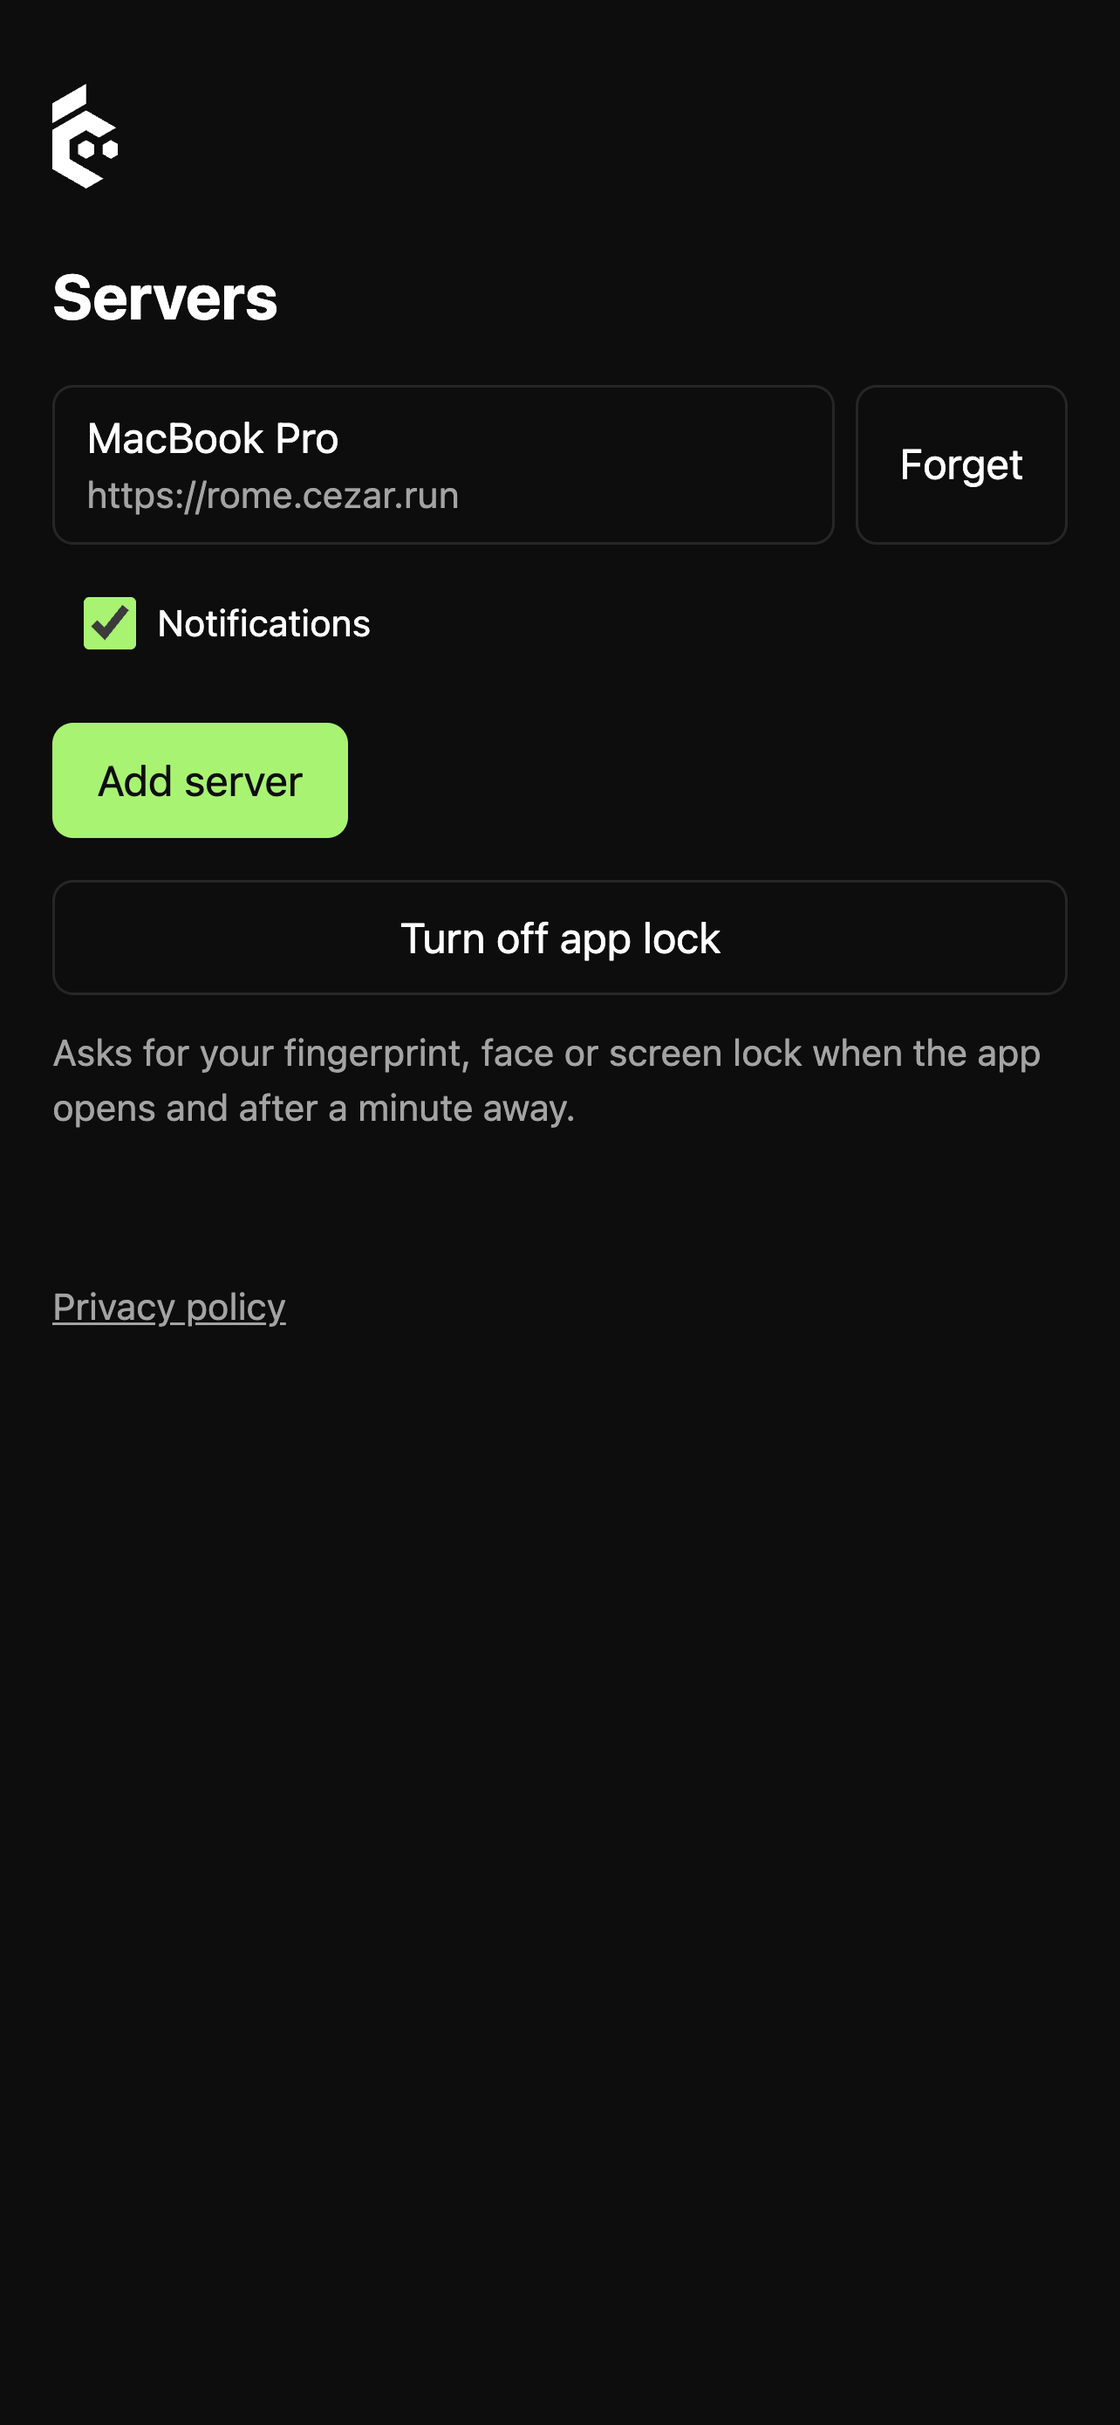
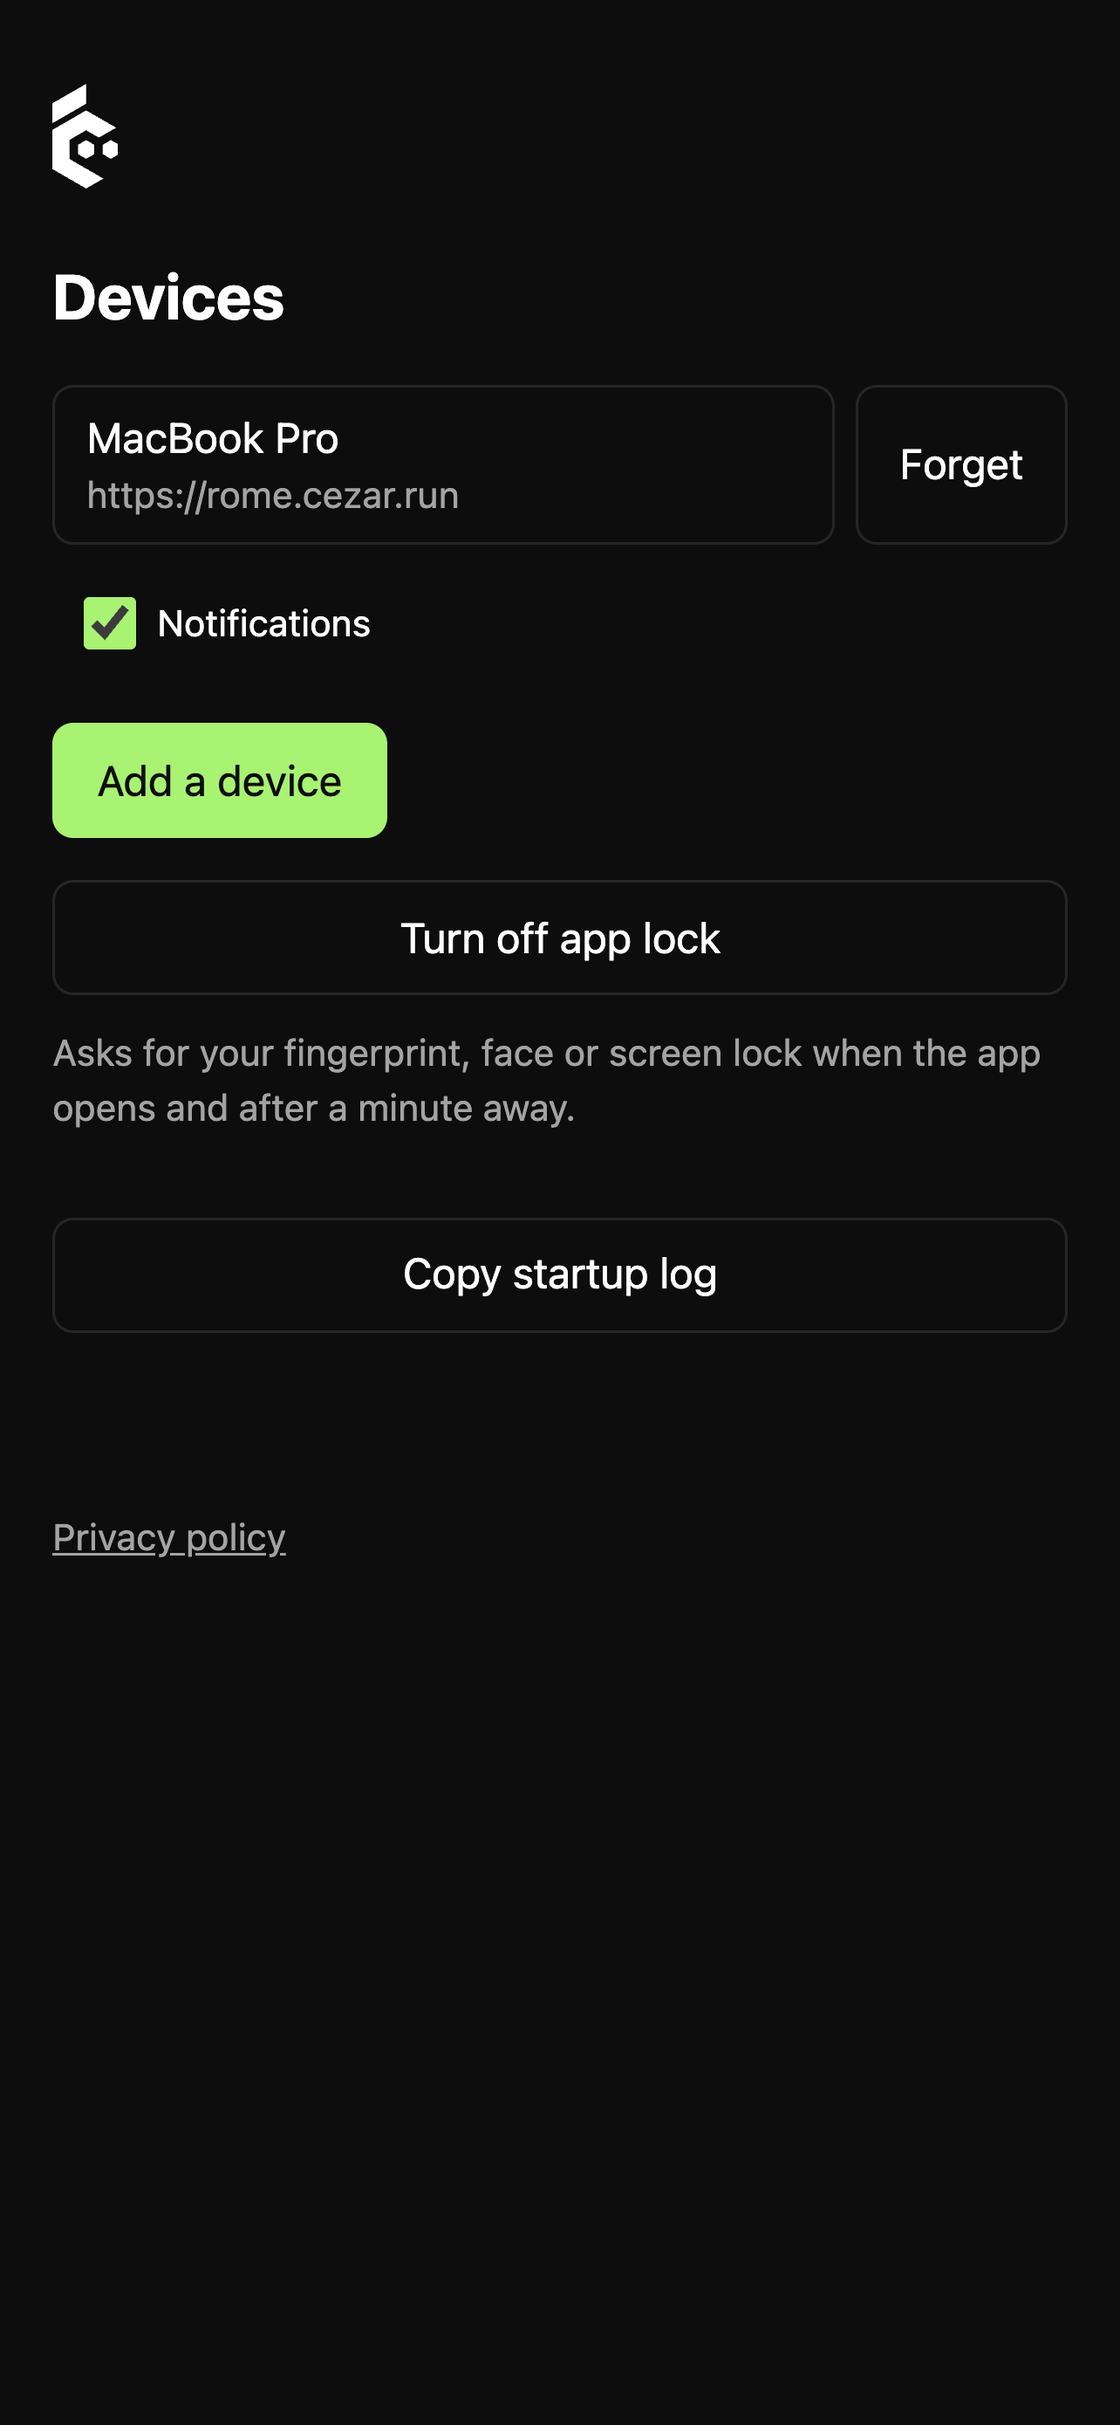
feat(mobile): Devices in the relay client's strings and native buttons
The list title, Add a device, Forget this device, Back to devices, the
Android launch and banner buttons, the iOS banner and the notification
prompt, docs and store texts. Code names and cezar://servers stay.

diff --git a/packages/mobile/store/privacy-policy.html b/packages/mobile/store/privacy-policy.html
@@ -33,7 +33,7 @@
 <ul><li>You do not create an account in the app. The relay asks whoever runs Cezar on a computer for an email address and to accept its terms, once per computer, in Cezar's Settings. The phone never asks for it.</li><li>The app contains no analytics, advertising or crash-reporting code, and sends no telemetry of its own.</li><li>Your work, such as tasks, code and messages, is encrypted end to end between the phone and your computer when you use the relay. The relay cannot read it.</li><li>The relay can still see some connection details, such as IP addresses, timing and data volume. These are listed below.</li><li>Notifications are optional and off until you turn them on for a server. A notification says only &quot;Cezar needs you&quot;. It never carries your tasks, code or messages.</li></ul>
 <h2 id="what-stays-on-your-phone">What stays on your phone</h2>
 <p>The app keeps the following in its private storage. Android's backup and device transfer are turned off for this app, so this data is not copied to your cloud backup or to a new phone.</p>
-<table><thead><tr><th>Data</th><th>Why</th><th>How it is kept</th></tr></thead><tbody><tr><td>Your server list: name, address, and for direct servers the username and login realm</td><td>To reconnect</td><td>Plain JSON in app-private storage</td></tr><tr><td>For paired servers: relay address, Cezar's public identifiers and key, the phone's ID on that server, a local port number</td><td>To reconnect through the relay</td><td>Plain JSON in app-private storage</td></tr><tr><td>Your server password, if you saved one</td><td>To sign in to a direct server</td><td>Encrypted with a key in the Android Keystore that cannot be exported</td></tr><tr><td>The phone's private keys for each paired server</td><td>To prove the phone is yours and to encrypt the connection</td><td>Encrypted with the same Keystore key</td></tr><tr><td>Whether the phone lock is on</td><td>To apply the lock</td><td>An empty file. It holds no secret</td></tr><tr><td>Cookies, page storage and the browser cache of the server's pages</td><td>So the cockpit works</td><td>Android WebView's normal storage for this app</td></tr></tbody></table>
+<table><thead><tr><th>Data</th><th>Why</th><th>How it is kept</th></tr></thead><tbody><tr><td>Your device list: name, address, and for direct servers the username and login realm</td><td>To reconnect</td><td>Plain JSON in app-private storage</td></tr><tr><td>For paired servers: relay address, Cezar's public identifiers and key, the phone's ID on that server, a local port number</td><td>To reconnect through the relay</td><td>Plain JSON in app-private storage</td></tr><tr><td>Your server password, if you saved one</td><td>To sign in to a direct server</td><td>Encrypted with a key in the Android Keystore that cannot be exported</td></tr><tr><td>The phone's private keys for each paired server</td><td>To prove the phone is yours and to encrypt the connection</td><td>Encrypted with the same Keystore key</td></tr><tr><td>Whether the phone lock is on</td><td>To apply the lock</td><td>An empty file. It holds no secret</td></tr><tr><td>Cookies, page storage and the browser cache of the server's pages</td><td>So the cockpit works</td><td>Android WebView's normal storage for this app</td></tr></tbody></table>
 <p><strong>Removing a server.</strong> When you forget a server, the app deletes its saved password or keys and its entry in the list. It also clears the page storage for that server, and most cookies of a direct server. Cookies set for a wider domain or a sub-path, and cookies from a single sign-on provider, can stay. It does not clear the WebView's HTTP cache, or cookies for a paired server, so these can stay on the phone until you clear the app's storage or uninstall the app.</p>
 <p><strong>Phone lock.</strong> The optional lock is off by default. It uses Android's own prompt for your biometrics or screen lock. The app never receives your fingerprint, face data or PIN. It only learns whether the prompt succeeded. The lock hides the app, but it does not change how keys are stored. With the lock on, the app's preview is hidden on the recent apps screen, although the app itself stays listed there. On Android 12 and older this also blocks screenshots of the app.</p>
 <h2 id="permissions">Permissions</h2>
@@ -70,7 +70,7 @@
 <p>The app sends no telemetry and has no analytics or crash-reporting library. The relay's code sends none either, apart from the usage data points above.</p>
 <p>The cockpit inside the app can report usage to Cezar on your computer. Your Cezar forwards it to Open Mercato only if you opted in. That is Cezar's own opt-in telemetry, described in Cezar's telemetry documentation. An answer to that question given on the phone is saved as your Cezar's answer.</p>
 <h2 id="notifications">Notifications</h2>
-<p>Notifications are off until you turn them on for a server paired through the relay. You can turn them on when the app asks after your first pairing, or with the <strong>Notifications</strong> switch on the server list. Android 13 and newer then asks for the notification permission.</p>
+<p>Notifications are off until you turn them on for a server paired through the relay. You can turn them on when the app asks after your first pairing, or with the <strong>Notifications</strong> switch on the Devices list. Android 13 and newer then asks for the notification permission.</p>
 <p><strong>While the app is open</strong>, or for 30 seconds after you leave it, the app asks your Cezar for signals inside the encrypted connection and shows a notification itself. Nothing leaves the encrypted connection for this.</p>
 <p><strong>While the app is closed</strong>, a notification comes through Firebase Cloud Messaging (Google):</p>
 <ul><li>When you turn notifications on, the app gets a push token from Firebase and sends it to the relay. The relay seals the token into a grant that only your Cezar can use, and returns the grant without storing the token. The app hands the grant to your Cezar inside the encrypted connection.</li><li>When Cezar needs you and the phone is not connected, Cezar asks the relay to send a push. The notification carries the fixed text &quot;Cezar needs you&quot; and Cezar's ID, and nothing about your tasks, projects or messages. Google sees that notification, the token and the time.</li><li>The relay keeps a revoked grant's ID for up to 90 days, so it cannot be reused, and refuses a repeated push ID for 10 minutes.</li><li>Turning the switch off revokes the grant at the relay at once. Forgetting the server revokes it too.</li><li>The app does not ask Firebase for anything until a switch is on, and it turns off Firebase analytics.</li></ul>

diff --git a/packages/mobile/connect/connect.js b/packages/mobile/connect/connect.js
@@ -247,7 +247,7 @@ function drawList(lockNotice) {
     ),
   );
   const leaving = removingNote(removing);
-  draw(titled('Servers'), element('ul', {}, ...rows), leaving && element('p', { className: 'muted', textContent: leaving }), button('Add server', () => go({ name: pairing ? 'start' : 'add' }), 'primary'), lockSection(lockRow(lock), lockNotice), startupLogButton());
+  draw(titled('Devices'), element('ul', {}, ...rows), leaving && element('p', { className: 'muted', textContent: leaving }), button('Add a device', () => go({ name: pairing ? 'start' : 'add' }), 'primary'), lockSection(lockRow(lock), lockNotice), startupLogButton());
   lockScreen = render;
 }
 
@@ -284,7 +284,7 @@ function drawForget({ server }) {
       { className: 'actions' },
       button('Cancel', () => goBack()),
       // `from`: Android restarts the app to drop the webview's auth cache, and the list's Back must survive that.
-      button('Forget server', () => run('forget', { id: server.id, from: cameFrom === server.id ? null : cameFrom }, {}, 'reset'), 'primary'),
+      button('Forget this device', () => run('forget', { id: server.id, from: cameFrom === server.id ? null : cameFrom }, {}, 'reset'), 'primary'),
     ),
   );
 }
@@ -472,7 +472,7 @@ function drawSuspended({ serverId, label }) {
     titled('Relay access suspended'),
     element('p', { textContent: `Relay access for ${label ?? 'this computer'} is suspended, so this phone cannot connect to it through the relay. Contact Open Mercato.` }),
     element('div', { className: 'stack' },
-      button('Back to servers', () => goBack(), 'primary'),
+      button('Back to devices', () => goBack(), 'primary'),
       button('Forget', () => go({ name: 'forget', server: { id: serverId, label, relay: true } })),
     ),
   );

diff --git a/packages/mobile/ios/App/App/Shell/ServerViewController.swift b/packages/mobile/ios/App/App/Shell/ServerViewController.swift
@@ -346,7 +346,7 @@ final class ServerViewController: UIViewController, WKNavigationDelegate, WKUIDe
     private func askAboutPush() {
         ShellServices.push.markAsked()
         let controller = UIAlertController(title: "Get notified?",
-                                           message: "Cezar can tell this phone when it needs you. The notification says only that, and you can turn it off on the Servers list.",
+                                           message: "Cezar can tell this phone when it needs you. The notification says only that, and you can turn it off on the Devices list.",
                                            preferredStyle: .alert)
         controller.addAction(UIAlertAction(title: "Not now", style: .cancel))
         controller.addAction(UIAlertAction(title: "Turn on", style: .default) { [weak self] _ in

diff --git a/packages/mobile/connect/nav.js b/packages/mobile/connect/nav.js
@@ -5,7 +5,7 @@
 const PAIR = new Set(['pair-waiting', 'pair-confirm', 'pair-failed']);
 const kind = (entry) => (PAIR.has(entry?.name) ? 'pair' : entry?.name);
 
-/** The bottom of the stack: the Servers list once a server is paired, else Connect to cezar. */
+/** The bottom of the stack: the Devices list once a server is paired, else Connect to cezar. */
 export const rootScreen = ({ servers, pairing }) => (servers?.length ? 'list' : pairing ? 'start' : 'add');
 
 /** A native answer that means "show the root", rather than a screen of its own. */

diff --git a/packages/mobile/ios/App/App/Shell/UI/ConnectionBanner.swift b/packages/mobile/ios/App/App/Shell/UI/ConnectionBanner.swift
@@ -18,7 +18,7 @@ final class ConnectionBanner: UIView {
             return UIButton(configuration: configuration, primaryAction: UIAction { _ in action() })
         }
         retryButton = button("Retry", onRetry)
-        serversButton = button("Servers", onServers)
+        serversButton = button("Devices", onServers)
         confirmButton = button("Confirm", onConfirm)
         confirmButton.isHidden = true
         super.init(frame: .zero)

diff --git a/packages/mobile/android/app/src/main/java/com/openmercato/cezar/mobile/shell/ServerActivity.java b/packages/mobile/android/app/src/main/java/com/openmercato/cezar/mobile/shell/ServerActivity.java
@@ -410,7 +410,7 @@ public final class ServerActivity extends AppCompatActivity implements AppLock.H
         ShellServices.push(this).markAsked();
         new AlertDialog.Builder(this)
                 .setTitle("Get notified?")
-                .setMessage("Cezar can tell this phone when it needs you. The notification says only that, and you can turn it off on the Servers list.")
+                .setMessage("Cezar can tell this phone when it needs you. The notification says only that, and you can turn it off on the Devices list.")
                 .setPositiveButton("Turn on", (dialog, which) -> {
                     if (Build.VERSION.SDK_INT >= Build.VERSION_CODES.TIRAMISU) notificationPermission.launch(Manifest.permission.POST_NOTIFICATIONS);
                     else turnPushOn();
@@ -484,7 +484,7 @@ public final class ServerActivity extends AppCompatActivity implements AppLock.H
         });
         bannerView.addView(bannerRetry);
         bannerServers = new Button(this);
-        bannerServers.setText("Servers");
+        bannerServers.setText("Devices");
         bannerServers.setOnClickListener(view -> leave(ShellConnector.LIST));
         bannerView.addView(bannerServers);
         frame.addView(bannerView, new FrameLayout.LayoutParams(FrameLayout.LayoutParams.MATCH_PARENT, FrameLayout.LayoutParams.WRAP_CONTENT, Gravity.TOP));

diff --git a/packages/mobile/android/app/src/main/java/com/openmercato/cezar/mobile/shell/LaunchView.java b/packages/mobile/android/app/src/main/java/com/openmercato/cezar/mobile/shell/LaunchView.java
@@ -59,7 +59,7 @@ final class LaunchView extends FrameLayout {
         again.setOnClickListener(view -> retry.run());
         buttons.addView(again);
         Button list = new Button(context);
-        list.setText("Servers");
+        list.setText("Devices");
         list.setOnClickListener(view -> servers.run());
         buttons.addView(list);
         problem.addView(buttons);

diff --git a/packages/mobile/README.md b/packages/mobile/README.md
@@ -27,7 +27,7 @@ origin. Page script reaches native code only by navigating to `cezar://servers`.
 
 ## App lock (Android)
 
-Optional and off by default, on the Servers list. It prompts on every process start and after 60
+Optional and off by default, on the Devices list. It prompts on every process start and after 60
 seconds in the background, using the phone's biometrics or screen lock. `AppLock` watches the
 activities, `LockPolicy` is the pure decision, and `LockShield` is the screen (spec QR3). It is a UI
 gate: it holds no key, and keys and the relay work as before. iOS has the same lock in
@@ -108,12 +108,12 @@ from a notification.
 | The streaming read inside the session | `shell/relay/TunnelGetStream.java` |
 | FCM | `push/FcmTokenSource.java`, `push/CezarMessagingService.java` |
 | The `attention` channel, the notifications the app posts itself | `push/PushNotifier.java` |
-| The switch | Servers list, per relay server (`connect/`), Firebase or not |
+| The switch | Devices list, per relay server (`connect/`), Firebase or not |
 
 How it behaves:
 
 - After the **first** relay pairing the server view asks once whether to turn notifications on.
-  Otherwise each relay server has a **Notifications** switch on the Servers list. Android 13+ asks
+  Otherwise each relay server has a **Notifications** switch on the Devices list. Android 13+ asks
   for the notification permission when it goes on. Without Firebase both work the same, and only the
   grant steps below are skipped.
 - On: Stage 1 starts with the next live session. With FCM, the grant is got and handed over on the
@@ -121,9 +121,9 @@ How it behaves:
   open once under 30 days remain, when cezar holds none or another `grantId`, and after FCM rotates
   the token (minted at once, handed over on the next open).
 - Off: the relay revokes the grant at once; cezar gets its `DELETE` with the next session.
-- Forget server: the goodbye makes cezar deny every grant, and the relay is asked to revoke too. A
+- Forget this device: the goodbye makes cezar deny every grant, and the relay is asked to revoke too. A
   revoke that answers 429 or 503 keeps the grant and that server's device key, and is retried on each
-  app open until a terminal answer or the grant expires. The Servers list names such a server as
+  app open until a terminal answer or the grant expires. The Devices list names such a server as
   still being removed.
 - State lives in `push.json` in the no-backup directory. The grant and the token are never logged.
 - FCM auto-init is off, so the app asks FCM for nothing until a switch is on.

diff --git a/packages/mobile/store/privacy-policy.md b/packages/mobile/store/privacy-policy.md
@@ -39,7 +39,7 @@ off for this app, so this data is not copied to your cloud backup or to a new ph
 
 | Data | Why | How it is kept |
 | --- | --- | --- |
-| Your server list: name, address, and for direct servers the username and login realm | To reconnect | Plain JSON in app-private storage |
+| Your device list: name, address, and for direct servers the username and login realm | To reconnect | Plain JSON in app-private storage |
 | For paired servers: relay address, Cezar's public identifiers and key, the phone's ID on that server, a local port number | To reconnect through the relay | Plain JSON in app-private storage |
 | Your server password, if you saved one | To sign in to a direct server | Encrypted with a key in the Android Keystore that cannot be exported |
 | The phone's private keys for each paired server | To prove the phone is yours and to encrypt the connection | Encrypted with the same Keystore key |
@@ -210,7 +210,7 @@ documentation. An answer to that question given on the phone is saved as your Ce
 ## Notifications
 
 Notifications are off until you turn them on for a server paired through the relay. You can turn them
-on when the app asks after your first pairing, or with the **Notifications** switch on the server list.
+on when the app asks after your first pairing, or with the **Notifications** switch on the Devices list.
 Android 13 and newer then asks for the notification permission.
 
 **While the app is open**, or for 30 seconds after you leave it, the app asks your Cezar for signals

diff --git a/packages/mobile/store/reviewer-notes.md b/packages/mobile/store/reviewer-notes.md
@@ -39,7 +39,7 @@ HOW IT CONNECTS
    password is kept in the device's secure storage and answered natively, never by the web page.
 
 Native features: QR pairing with the camera, the encrypted relay connection, keychain sign-in,
-several servers, notifications when cezar needs the user, and an optional app lock with biometrics.
+several devices, notifications when cezar needs the user, and an optional app lock with biometrics.
 
 DEMO ACCESS
 We run a demo cezar for review. Its agents are simulated: nothing you do runs a real AI model or
